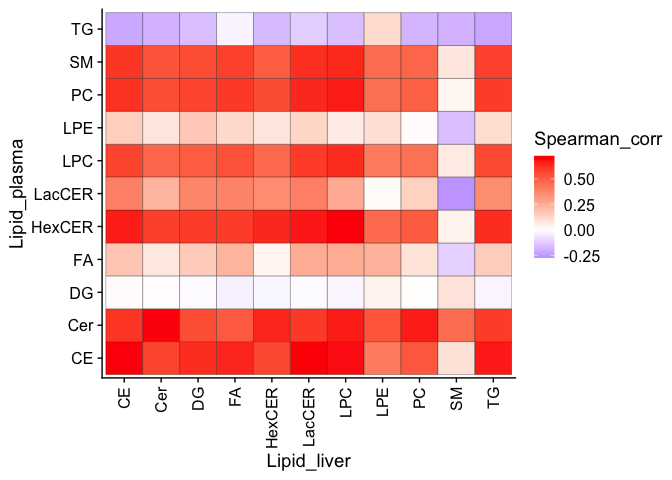
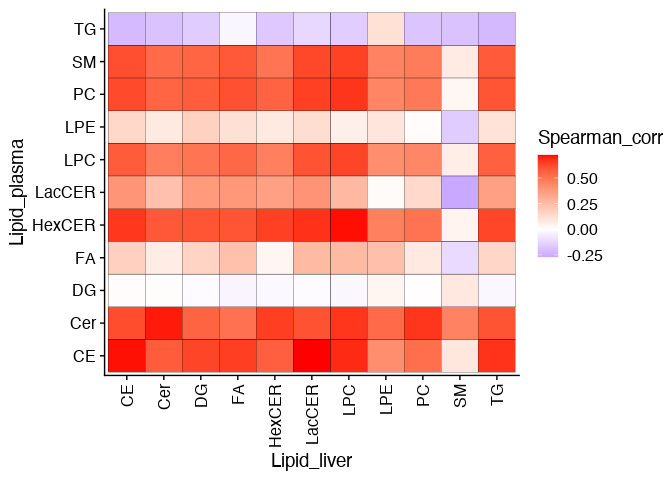
markdown

Changed region(s): [[0.0, 0.0312, 1.0, 1.0]]

diff --git a/markdowns/lipidomics.md b/markdowns/lipidomics.md
@@ -4,6 +4,7 @@ Timothy Yu
 
 ``` r
 knitr::opts_chunk$set(echo = TRUE)
+knitr::opts_chunk$set(dev.args = list(png = list(type = "cairo")))
 ```
 
 Liver lipidomics
